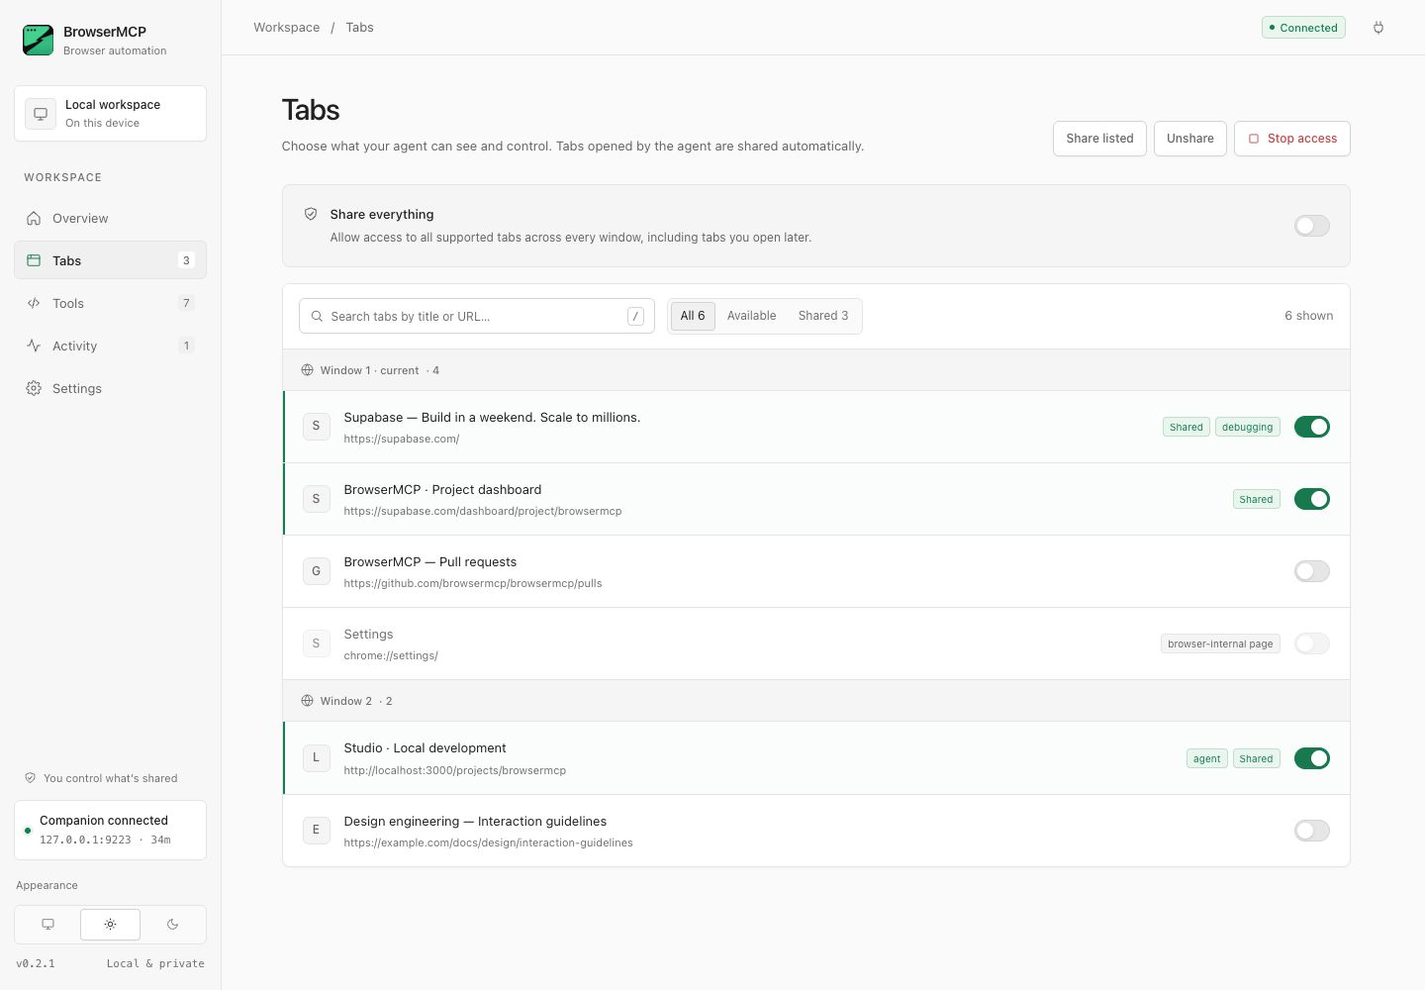
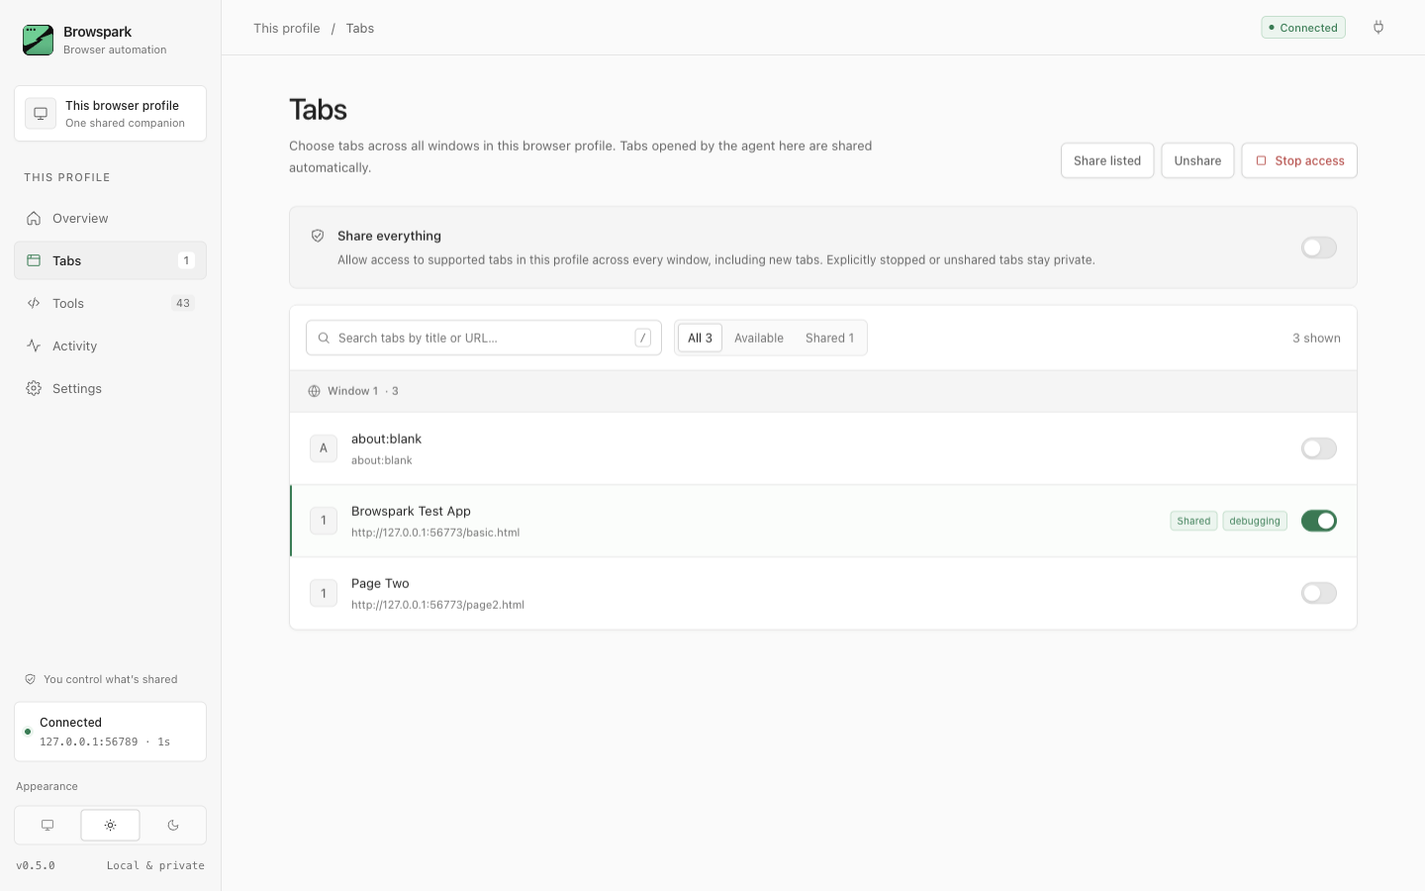
feat(extension): clarify profile sharing and dashboard controls

diff --git a/extension/src/app.ts b/extension/src/app.ts
@@ -140,7 +140,7 @@ const stat = (k: string, v: string | number, extra?: string, cls = '', agoTs?: n
 const empty = (ic: keyof typeof I, title: string, sub?: string, action?: Node) => h('div', { class: 'empty' }, icon(ic), h('b', {}, title), sub ? h('span', {}, sub) : null, action ?? null);
 const stopResume = (s: State) => s.stopped
   ? h('button', { class: 'btn primary', disabled: connectionBusy(s), 'aria-busy': String(connectionBusy(s)), onclick: () => changeConnection({ type: 'connect' }) }, icon('play'), 'Resume access')
-  : h('button', { class: 'btn danger', disabled: !s.connected && !s.connecting, onclick: () => changeConnection({ type: 'stop' }), title: 'Detach from every tab and disconnect' }, icon('stop'), 'Stop access');
+  : h('button', { class: 'btn danger', disabled: !s.connected && !s.connecting, onclick: () => changeConnection({ type: 'stop' }), title: 'Detach from this profile’s tabs and disconnect this extension' }, icon('stop'), 'Stop access');
 
 function copyBtn(text: string, label = 'Copy') {
   return h('button', { class: 'btn sm icon ghost', title: label, 'aria-label': label, onclick: async (e: Event) => { const b = e.currentTarget as HTMLElement; await navigator.clipboard.writeText(text); b.replaceChildren(icon('check')); setTimeout(() => b.replaceChildren(icon('copy')), 1200); } }, icon('copy'));
@@ -221,7 +221,7 @@ function viewOverview(s: State) {
     h('div', { class: 'card-b steps' },
       h('div', { class: `step ${companionOk ? 'done' : step === 2 ? 'now' : ''}` }, h('div', { class: 'num' }, companionOk ? icon('check') : '1'), h('div', {},
         h('h3', {}, 'Run the companion'),
-        h('p', {}, 'Register it with your MCP client. It starts the local bridge on ', h('code', {}, `127.0.0.1:${s.port}`), '.'),
+        h('p', {}, 'Register it once with your MCP client. Every browser profile can use the same companion at ', h('code', {}, `127.0.0.1:${s.port}`), '.'),
         clientSetup(s.port))),
       h('div', { class: `step ${step > 2 ? 'done' : step === 2 ? 'now' : ''}` }, h('div', { class: 'num' }, step > 2 ? icon('check') : '2'), h('div', {},
         h('h3', {}, 'Connect this extension'),
@@ -230,7 +230,7 @@ function viewOverview(s: State) {
         s.lastError && !s.connected ? h('div', { class: 'notice bad', style: 'margin-top:10px' }, icon('alert'), s.lastError) : null)),
       h('div', { class: `step ${step > 3 ? 'done' : step === 3 ? 'now' : ''}` }, h('div', { class: 'num' }, step > 3 ? icon('check') : '3'), h('div', {},
         h('h3', {}, 'Share tabs'),
-        h('p', {}, 'Choose the tabs your agent can control. Change access at any time.'),
+        h('p', {}, 'Choose the tabs your agent can control in this browser profile. Change access at any time.'),
         h('a', { href: '#/tabs', class: 'btn' }, icon('tabs'), s.shareAll ? 'Sharing everything · manage' : shared.length ? `${shared.length} shared · manage` : 'Choose tabs')))));
 
   const ready = !editing && (!s.stopped || !!s.lastError);
@@ -242,9 +242,11 @@ function viewOverview(s: State) {
       : empty('tabs', 'Your tabs stay private', 'Choose a tab to give your agent access.', h('a', { class: 'btn primary', href: '#/tabs' }, 'Choose tabs')),
     shared.length ? h('a', { class: 'panel-footer', href: '#/tabs' }, 'Manage tab access', icon('arrow')) : null);
   return h('div', { class: 'page' },
-    pageHeader('Overview', 'Your browser workspace, at a glance.', ready ? h('a', { class: 'btn primary', href: '#/tabs' }, icon('tabs'), 'Manage tabs') : null, stopResume(s)),
-    s.stopped && !s.lastError ? h('div', { class: 'notice warn', style: 'margin-bottom:16px' }, icon('alert'), 'Access is stopped. The agent cannot reach any tab until you resume.', h('button', { class: 'btn sm', disabled: connectionBusy(s), 'aria-busy': String(connectionBusy(s)), onclick: () => changeConnection({ type: 'connect' }) }, 'Resume')) : null,
+    pageHeader('Overview', 'Sharing, connection and activity for this browser profile.', ready ? h('a', { class: 'btn primary', href: '#/tabs' }, icon('tabs'), 'Manage tabs') : null, stopResume(s)),
+    s.stopped && !s.lastError ? h('div', { class: 'notice warn', style: 'margin-bottom:16px' }, icon('alert'), 'Access to this profile is stopped. Resume, then share tabs again. Other browsers and developer sessions remain available.', h('button', { class: 'btn sm', disabled: connectionBusy(s), 'aria-busy': String(connectionBusy(s)), onclick: () => changeConnection({ type: 'connect' }) }, 'Resume')) : null,
     onboarding,
+    h('div', { class: 'callout', style: 'margin-bottom:16px' }, icon('globe'),
+      h('div', { class: 'body' }, h('b', {}, 'Use browsers together'), h('div', { class: 'muted' }, 'Connect the extension in each Chrome or Brave profile. Firefox and Zen use separate developer sessions launched by your agent, with the same tool names and documented exceptions. ', h('a', { href: 'https://docs.browspark.krishm.dev/reference/multiple-browsers', target: '_blank', rel: 'noreferrer' }, 'Multi-browser guide')))),
     ready ? h('div', { class: 'card connection-panel', 'aria-busy': String(s.connecting) },
       h('div', { class: 'connection-icon' }, s.connecting ? spinner() : icon('plug')),
       h('div', { class: 'connection-copy' }, h('h2', {}, s.connecting ? 'Reconnecting…' : s.connected ? 'Your browser is connected' : 'Disconnected'), h('p', {}, s.connecting ? 'Waiting for the companion to confirm the connection.' : s.connected ? shared.length ? 'Your agent can work in the tabs you’ve shared.' : 'Share a tab to start working with your agent.' : s.lastError ?? 'Start the companion, then reconnect.')),
@@ -279,7 +281,7 @@ function viewTabs(s: State) {
 
   const row = (t: TabInfo) => {
     const eligible = canShare(t);
-    const cb = h('input', { type: 'checkbox', checked: t.shared && eligible, 'aria-label': `Share ${t.title || t.url}`, disabled: !eligible, title: !eligible ? `Chrome does not allow automation on ${t.unsupported}s` : t.shared ? 'Stop sharing' : isNewTab(t.url) ? 'Share this New Tab so the agent can navigate it to a website' : 'Share with agent', onchange: (e: Event) => ask({ type: 'setShared', tabIds: [t.id], shared: checked(e) }).then(paint) }) as HTMLInputElement;
+    const cb = h('input', { type: 'checkbox', checked: t.shared && eligible, 'aria-label': `Share ${t.title || t.url}`, disabled: !eligible, title: !eligible ? `The browser does not allow automation on ${t.unsupported}s` : t.shared ? 'Stop sharing' : isNewTab(t.url) ? 'Share this New Tab so the agent can navigate it to a website' : 'Share with agent', onchange: (e: Event) => ask({ type: 'setShared', tabIds: [t.id], shared: checked(e) }).then(paint) }) as HTMLInputElement;
     const fav = h('div', { class: 'fav' });
     if (t.favIconUrl) { const img = h('img', { src: t.favIconUrl, alt: '' }) as HTMLImageElement; img.onerror = () => fav.replaceChildren(initial(t)); fav.append(img); } else fav.textContent = initial(t);
     return h('div', { class: `tab ${!eligible ? 'off' : t.shared ? 'shared' : ''}`, 'data-key': String(t.id) },
@@ -288,20 +290,20 @@ function viewTabs(s: State) {
       h('div', { class: 'badges' },
         t.agent ? h('span', { class: 'pill accent' }, 'agent') : null,
         t.shared && eligible ? h('span', { class: 'pill ok' }, 'Shared') : null,
-        t.attached ? h('span', { class: 'pill ok', title: 'The debugger is attached: Chrome shows its "started debugging" bar. It detaches after 30s of inactivity unless an inspection session is running.' }, 'debugging') : null,
-        isNewTab(t.url) ? h('span', { class: 'pill', title: 'Share this tab to let the agent navigate it to a website. Chrome’s New Tab content cannot be inspected directly.' }, 'New tab') : t.unsupported ? h('span', { class: 'pill' }, t.unsupported) : null),
+        t.attached ? h('span', { class: 'pill ok', title: 'The debugger is attached: the browser shows its debugging indicator. It detaches after 30s of inactivity unless an inspection session is running.' }, 'debugging') : null,
+        isNewTab(t.url) ? h('span', { class: 'pill', title: 'Share this tab to let the agent navigate it to a website. The browser’s New Tab content cannot be inspected directly.' }, 'New tab') : t.unsupported ? h('span', { class: 'pill' }, t.unsupported) : null),
       h('label', { class: 'switch' }, cb));
   };
 
   const allCb = h('input', { type: 'checkbox', checked: s.shareAll, 'aria-label': 'Share everything', onchange: (e: Event) => ask({ type: 'setShareAll', on: checked(e) }).then(paint) }) as HTMLInputElement;
   return h('div', { class: 'page' },
-    pageHeader('Tabs', 'Choose which tabs your agent can use across all windows. Tabs opened by the agent are shared automatically.',
+    pageHeader('Tabs', 'Choose tabs across all windows in this browser profile. Tabs opened by the agent here are shared automatically.',
       h('button', { class: 'btn', disabled: !shareable.some((t) => !t.shared), onclick: () => setMany(shareable.filter((t) => !t.shared).map((t) => t.id), true) }, `Share ${q || ui.tabFilter !== 'all' ? 'matching' : 'listed'}`),
       h('button', { class: 'btn', disabled: !list.some((t) => t.shared), onclick: () => setMany(list.filter((t) => t.shared).map((t) => t.id), false) }, 'Unshare'),
       stopResume(s)),
     h('div', { class: `callout ${s.shareAll ? 'sharing-all' : ''}`, style: 'margin-bottom:16px' },
       icon(s.shareAll ? 'globe' : 'shield'),
-      h('div', { class: 'body' }, h('b', {}, 'Share everything'), h('div', { class: 'muted' }, s.shareAll ? 'Supported tabs across every window are shared, including new tabs. Stopped or unshared tabs stay private until you share them again.' : 'Allow access to supported tabs across every window, including new tabs. Explicitly stopped or unshared tabs stay private.')),
+      h('div', { class: 'body' }, h('b', {}, 'Share everything'), h('div', { class: 'muted' }, s.shareAll ? 'Supported tabs in this profile are shared across every window, including new tabs. Stopped or unshared tabs stay private until you share them again.' : 'Allow access to supported tabs in this profile across every window, including new tabs. Explicitly stopped or unshared tabs stay private.')),
       h('label', { class: 'switch ctl' }, allCb)),
     h('div', { class: 'card' },
       h('div', { class: 'toolbar' },
@@ -309,7 +311,7 @@ function viewTabs(s: State) {
         h('div', { class: 'seg' }, seg('all', `All ${all.length}`), seg('available', 'Available'), seg('shared', `Shared ${all.filter((t) => t.shared && canShare(t)).length}`)),
         h('div', { class: 'right' }, h('span', { class: 'sub', style: 'color:var(--fg-3);font-size:12.5px' }, `${list.length} shown`))),
       groups.length ? h('div', {}, ...groups.flatMap((g) => [h('div', { class: 'group' }, icon('globe'), g.w.label, h('span', { style: 'font-weight:500;text-transform:none;letter-spacing:0' }, `· ${g.tabs.length}`)), ...g.tabs.map(row)]))
-        : empty('search', 'No tabs match', q ? `Nothing for “${ui.search}”.` : 'Open a page in Chrome and it will appear here.')));
+        : empty('search', 'No tabs match', q ? `Nothing for “${ui.search}”.` : 'Open a page in this browser profile and it will appear here.')));
 }
 
 const TOOL_GROUPS: [RegExp, string][] = [
@@ -336,9 +338,10 @@ function viewTools(s: State) {
       h('label', { class: 'switch' }, h('input', { type: 'checkbox', checked: !off.has(t.name), 'aria-label': `Enable ${t.name}`, onchange: (e: Event) => ask({ type: 'setToolEnabled', name: t.name, enabled: checked(e) }).then(paint) })));
   };
   return h('div', { class: 'page' },
-    pageHeader('Tools', 'Manage your agent’s capabilities. Disabled tools require your approval before they can be used.',
+    pageHeader('Tools', 'Switch tools on or off for this browser profile. Turn a disabled tool back on here to allow it.',
       h('button', { class: 'btn', disabled: !list.some((t) => off.has(t.name)), onclick: () => setMany(list.filter((t) => off.has(t.name)).map((t) => t.name), true) }, `Enable ${q || ui.toolFilter !== 'all' ? 'matching' : 'all'}`),
       h('button', { class: 'btn', disabled: !list.some((t) => !off.has(t.name)), onclick: () => setMany(list.filter((t) => !off.has(t.name)).map((t) => t.name), false) }, `Disable ${q || ui.toolFilter !== 'all' ? 'matching' : 'all'}`)),
+    h('div', { class: 'notice', style: 'margin-bottom:16px' }, icon('shield'), h('span', {}, 'Calls targeting this profile use these switches. Calls across browsers and in developer sessions use the combined restrictions from connected profiles. ', h('a', { href: 'https://docs.browspark.krishm.dev/concepts/tool-policy', target: '_blank', rel: 'noreferrer' }, 'Tool policy'))),
     h('div', { class: 'card' },
       h('div', { class: 'toolbar' },
         h('label', { class: 'field' }, icon('search'), h('input', { id: 'toolsearch', placeholder: 'Search tools…', 'aria-label': 'Search tools', value: ui.toolSearch, oninput: (e: Event) => { ui.toolSearch = (e.target as HTMLInputElement).value; repaint(); } }), h('kbd', { class: 'kbd', 'aria-hidden': 'true' }, '/')),
@@ -350,13 +353,13 @@ function viewTools(s: State) {
 }
 
 function viewActivity(s: State) {
-  if (!s.activityLog) return h('div', { class: 'page' }, pageHeader('Activity', 'The last 200 commands recorded while activity logging is enabled.'),
+  if (!s.activityLog) return h('div', { class: 'page' }, pageHeader('Activity', 'The last 200 commands for this profile, recorded while activity logging is enabled.'),
     h('div', { class: 'card' }, empty('activity', 'Activity log is off', 'Nothing is being recorded. Enable it in Settings to see commands, latency, and errors here.', h('button', { class: 'btn primary sm', style: 'margin-top:8px', onclick: () => ask({ type: 'setActivityLog', on: true }).then(paint) }, 'Enable activity log'))));
   const errors = s.recent.filter((r) => !r.ok);
   const list = ui.logFilter === 'errors' ? errors : s.recent;
   const seg = (v: typeof ui.logFilter, label: string) => h('button', { class: ui.logFilter === v ? 'on' : '', 'aria-pressed': String(ui.logFilter === v), onclick: () => { ui.logFilter = v; repaint(); } }, label);
   return h('div', { class: 'page' },
-    pageHeader('Activity', 'The last 200 commands recorded while activity logging is enabled.',
+    pageHeader('Activity', 'The last 200 commands for this profile, recorded while activity logging is enabled.',
       h('button', { class: 'btn ghost', disabled: !s.recent.length, onclick: () => ask({ type: 'clearLog' }).then(paint) }, icon('trash'), 'Clear')),
     h('div', { class: 'grid c4', style: 'margin-bottom:16px' },
       stat('Operations', s.recent.length), stat('Errors', errors.length, undefined, errors.length ? 'bad' : ''),
@@ -379,36 +382,36 @@ function viewSettings(s: State) {
   const port = h('input', { id: 'port', type: 'number', min: 1, max: 65535, 'aria-label': 'Bridge port', value: String(s.port), class: 'mono' }) as HTMLInputElement;
   const save = () => changeConnection({ type: 'setConfig', port: Number(inputValue('port')) || 9223 });
   return h('div', { class: 'page' },
-    pageHeader('Settings', 'Your connection, privacy, and agent access preferences.'),
+    pageHeader('Settings', 'Connection, privacy and agent access for this browser profile.'),
     h('div', { class: 'card', style: 'margin-bottom:16px' },
       h('div', { class: 'card-h' }, h('h2', {}, 'Companion')),
-      h('div', { class: 'setting' }, h('div', {}, h('h3', {}, 'Bridge port'), h('p', {}, 'Where the companion listens on localhost. Change it if you run the companion with ', h('code', {}, '--port'), '.')), h('div', { class: 'ctl' }, h('label', { class: 'field narrow' }, port))),
+      h('div', { class: 'setting' }, h('div', {}, h('h3', {}, 'Bridge port'), h('p', {}, 'Use the same port in each browser profile to connect to one companion. Change it if you run the companion with ', h('code', {}, '--port'), '.')), h('div', { class: 'ctl' }, h('label', { class: 'field narrow' }, port))),
       h('div', { class: 'setting' }, h('div', {}, h('h3', {}, 'Connection'), h('p', s.connected ? { 'data-ago': String(s.connectedAt), 'data-ago-fmt': 'Connected for {ago}.' } : {}, s.connecting ? 'Reconnecting… Waiting for the companion.' : s.connected ? `Connected for ${ago(s.connectedAt!)}.` : `Disconnected.${s.lastError ? ' ' + s.lastError : ''}`)), h('div', { class: 'ctl' }, h('button', { id: 'reconnect', class: 'btn ghost', 'aria-label': 'Reconnect', disabled: connectionBusy(s), 'aria-busy': String(connectionBusy(s)), onclick: () => changeConnection({ type: 'connect' }) }, s.connecting ? spinner() : icon('refresh'), s.connecting ? 'Reconnecting…' : 'Reconnect'), h('button', { class: 'btn primary', disabled: connectionBusy(s), 'aria-busy': String(connectionBusy(s)), onclick: save }, 'Save')))),
     h('div', { class: 'card', style: 'margin-bottom:16px' },
       h('div', { class: 'card-h' }, h('h2', {}, 'Other clients')),
-      h('div', { class: 'setting' }, h('div', {}, h('h3', {}, 'HTTP endpoint'), h('p', {}, 'Clients that take a URL instead of a command (web agents, hosted assistants) connect here while the companion runs. Localhost only; web pages are refused.'),
+      h('div', { class: 'setting' }, h('div', {}, h('h3', {}, 'HTTP endpoint'), h('p', {}, 'Local MCP clients that take a URL can connect here while the companion runs. The endpoint is available only on this machine; web pages are refused.'),
         h('div', { class: 'cmd', style: 'margin-top:8px' }, h('code', {}, `http://127.0.0.1:${s.port}/mcp`), copyBtn(`http://127.0.0.1:${s.port}/mcp`))),
         h('div', { class: 'ctl' }))),
     h('div', { class: 'card', style: 'margin-bottom:16px' },
       h('div', { class: 'card-h' }, h('h2', {}, 'Developer browser')),
-      h('div', { class: 'setting' }, h('div', {}, h('h3', {}, 'When the agent may open a separate Chrome'), h('p', {}, 'Everyday work happens in your tabs. A developer-mode Chrome is only needed for things Chrome blocks for extensions: heap snapshots, Lighthouse, raw protocol commands.')),
+      h('div', { class: 'setting' }, h('div', {}, h('h3', {}, 'When the agent may launch a browser'), h('p', {}, 'Separate Chrome, Brave, Firefox and Zen sessions have their own saved profiles. Only when needed allows a launch when a tool requires it or you explicitly request it.'), h('p', {}, 'With multiple connected profiles, Never takes priority, followed by Only when needed, then Always. Firefox and Zen have ', h('a', { href: 'https://docs.browspark.krishm.dev/reference/firefox', target: '_blank', rel: 'noreferrer' }, 'documented tool exceptions'), '.')),
         h('div', { class: 'ctl' }, h('div', { class: 'seg', role: 'group', 'aria-label': 'Developer browser mode' }, ...([['auto', 'Only when needed'], ['always', 'Always'], ['never', 'Never']] as const).map(([v, label]) =>
           h('button', { class: s.devMode === v ? 'on' : '', 'aria-pressed': String(s.devMode === v), onclick: () => ask({ type: 'setDevMode', mode: v }).then(paint) }, label)))))),
     h('div', { class: 'card', style: 'margin-bottom:16px' },
       h('div', { class: 'card-h' }, h('h2', {}, 'Browser behavior')),
-      h('div', { class: 'setting' }, h('div', {}, h('h3', {}, 'Work in background'), h('p', {}, 'Do not switch away from my active tab. If an operation needs foreground interaction, select the agent tab yourself or temporarily turn this off.')),
+      h('div', { class: 'setting' }, h('div', {}, h('h3', {}, 'Work in background'), h('p', {}, 'On by default for this profile. Commands target the assigned tab without switching your active tab or focusing its window. If an operation needs foreground interaction, select the agent tab yourself or temporarily turn this off.')),
         h('div', { class: 'ctl' }, h('label', { class: 'switch' }, h('input', { type: 'checkbox', checked: s.backgroundMode, 'aria-label': 'Work in background', onchange: (e: Event) => ask({ type: 'setBackgroundMode', on: checked(e) }).then(paint) }), h('span', {}))))),
     h('div', { class: 'card', style: 'margin-bottom:16px' },
       h('div', { class: 'card-h' }, h('h2', {}, 'Agent overlay')),
-      h('div', { class: 'setting' }, h('div', {}, h('h3', {}, 'Show the agent at work'), h('p', {}, 'A soft cyan halo around the tab, a cursor that moves to each click, and a Stop button while the agent is driving it. Stop revokes the tab instantly.')),
+      h('div', { class: 'setting' }, h('div', {}, h('h3', {}, 'Show the agent at work'), h('p', {}, 'Show a cyan halo, moving cursor and Stop button on this profile’s tabs. Stop revokes only that tab. Developer sessions show the overlay only if every connected profile enables it.')),
         h('div', { class: 'ctl' }, h('label', { class: 'switch' }, h('input', { type: 'checkbox', checked: s.overlay, 'aria-label': 'Agent overlay', onchange: (e: Event) => ask({ type: 'setOverlay', on: (e.target as HTMLInputElement).checked }).then(paint) }), h('span', {}))))),
     h('div', { class: 'card', style: 'margin-bottom:16px' },
       h('div', { class: 'card-h' }, h('h2', {}, 'Privacy')),
       h('div', { class: 'setting' }, h('div', {}, h('h3', {}, 'Activity log'), h('p', {}, s.activityLog ? 'Keeps the last 200 commands in memory for this session.' : 'Off. No command history is kept. Operations and Errors are hidden on Overview.')), h('div', { class: 'ctl' }, h('label', { class: 'switch' }, h('input', { type: 'checkbox', checked: s.activityLog, 'aria-label': 'Activity log', onchange: (e: Event) => ask({ type: 'setActivityLog', on: checked(e) }).then(paint) }))))),
     h('div', { class: 'card danger-card' },
       h('div', { class: 'card-h' }, h('h2', {}, 'Emergency stop')),
-      h('div', { class: 'setting' }, h('div', {}, h('h3', {}, s.stopped ? 'Access is stopped' : 'Stop all agent access'), h('p', {}, 'Detaches the debugger from every tab, clears the shared list, and disconnects. Nothing is retried on resume.')), h('div', { class: 'ctl' }, stopResume(s)))),
-    h('p', { style: 'color:var(--fg-3);font-size:12px;margin-top:24px' }, `Browspark extension v${s.extensionVersion} · Chrome restricts automation on browser-internal pages and the Web Store.`));
+      h('div', { class: 'setting' }, h('div', {}, h('h3', {}, s.stopped ? 'This profile’s access is stopped' : 'Stop access to this profile'), h('p', {}, 'Detaches this profile’s tabs, clears sharing, turns off Share everything and disconnects this extension. Other browser profiles and developer sessions remain available. Resume reconnects; share tabs again to restore access.')), h('div', { class: 'ctl' }, stopResume(s)))),
+    h('p', { style: 'color:var(--fg-3);font-size:12px;margin-top:24px' }, `Browspark extension v${s.extensionVersion} · Chromium browsers restrict automation on browser-internal pages and extension stores.`));
 }
 
 // ---------- paint loop ----------
@@ -438,7 +441,7 @@ function paint(raw: State) {
   try { paintInner(s); }
   catch (e) {
     // a rendering bug must never leave a blank page
-    $('main').replaceChildren(h('div', { class: 'notice bad', style: 'margin:16px' }, icon('alert'), h('span', {}, `The dashboard failed to render: ${(e as Error).message}. Try reloading the extension at chrome://extensions and reopening this page.`), h('button', { class: 'btn sm', onclick: () => chrome.runtime.reload() }, 'Reload extension')));
+    $('main').replaceChildren(h('div', { class: 'notice bad', style: 'margin:16px' }, icon('alert'), h('span', {}, `The dashboard failed to render: ${(e as Error).message}. Try reloading the extension from your browser’s extensions page and reopening this dashboard.`), h('button', { class: 'btn sm', onclick: () => chrome.runtime.reload() }, 'Reload extension')));
   }
 }
 function paintInner(s: State) {

diff --git a/extension/app.html b/extension/app.html
@@ -11,16 +11,16 @@
 <body>
 <a class="skip-link" href="#main">Skip to content</a>
 <div class="shell">
-  <aside class="sidebar" aria-label="Workspace navigation">
+  <aside class="sidebar" aria-label="Browser profile navigation">
     <a class="brand" href="#/overview" aria-label="Browspark overview">
       <span class="brand-mark"><img src="assets/logo.png" alt=""></span>
       <span><span class="brand-name">Browspark</span><span class="brand-sub">Browser automation</span></span>
     </a>
     <div class="workspace-card">
       <span class="workspace-avatar" aria-hidden="true"><svg class="i" viewBox="0 0 24 24"><rect x="3" y="4" width="18" height="13" rx="2"/><path d="M8 21h8M12 17v4"/></svg></span>
-      <div><div class="workspace-name">Local workspace</div><div class="workspace-meta">On this device</div></div>
+      <div><div class="workspace-name">This browser profile</div><div class="workspace-meta">One shared companion</div></div>
     </div>
-    <div class="nav-caption">Workspace</div>
+    <div class="nav-caption">This profile</div>
     <nav id="nav" aria-label="Main navigation"></nav>
     <div class="side-foot">
       <div class="privacy-note"><svg class="i" viewBox="0 0 24 24" aria-hidden="true"><path d="m12 3 8 3v6c0 5-8 9-8 9s-8-4-8-9V6z"/><path d="m8 12 3 3 5-6"/></svg><span>You control what’s shared</span></div>
@@ -32,7 +32,7 @@
   </aside>
   <div class="workspace">
     <header class="topbar">
-      <div class="breadcrumb"><span>Workspace</span><span aria-hidden="true">/</span><span id="crumb">Overview</span></div>
+      <div class="breadcrumb"><span>This profile</span><span aria-hidden="true">/</span><span id="crumb">Overview</span></div>
       <div class="topbar-actions"><span class="local-badge" id="session-status" role="status"></span><a href="#/settings" aria-label="Open connection settings" title="Connection settings"><svg class="i" viewBox="0 0 24 24" aria-hidden="true"><path d="M12 22v-5M9 8V2M15 8V2M18 8v5a6 6 0 0 1-12 0V8z"/></svg></a></div>
     </header>
     <main id="main" tabindex="-1"></main>
